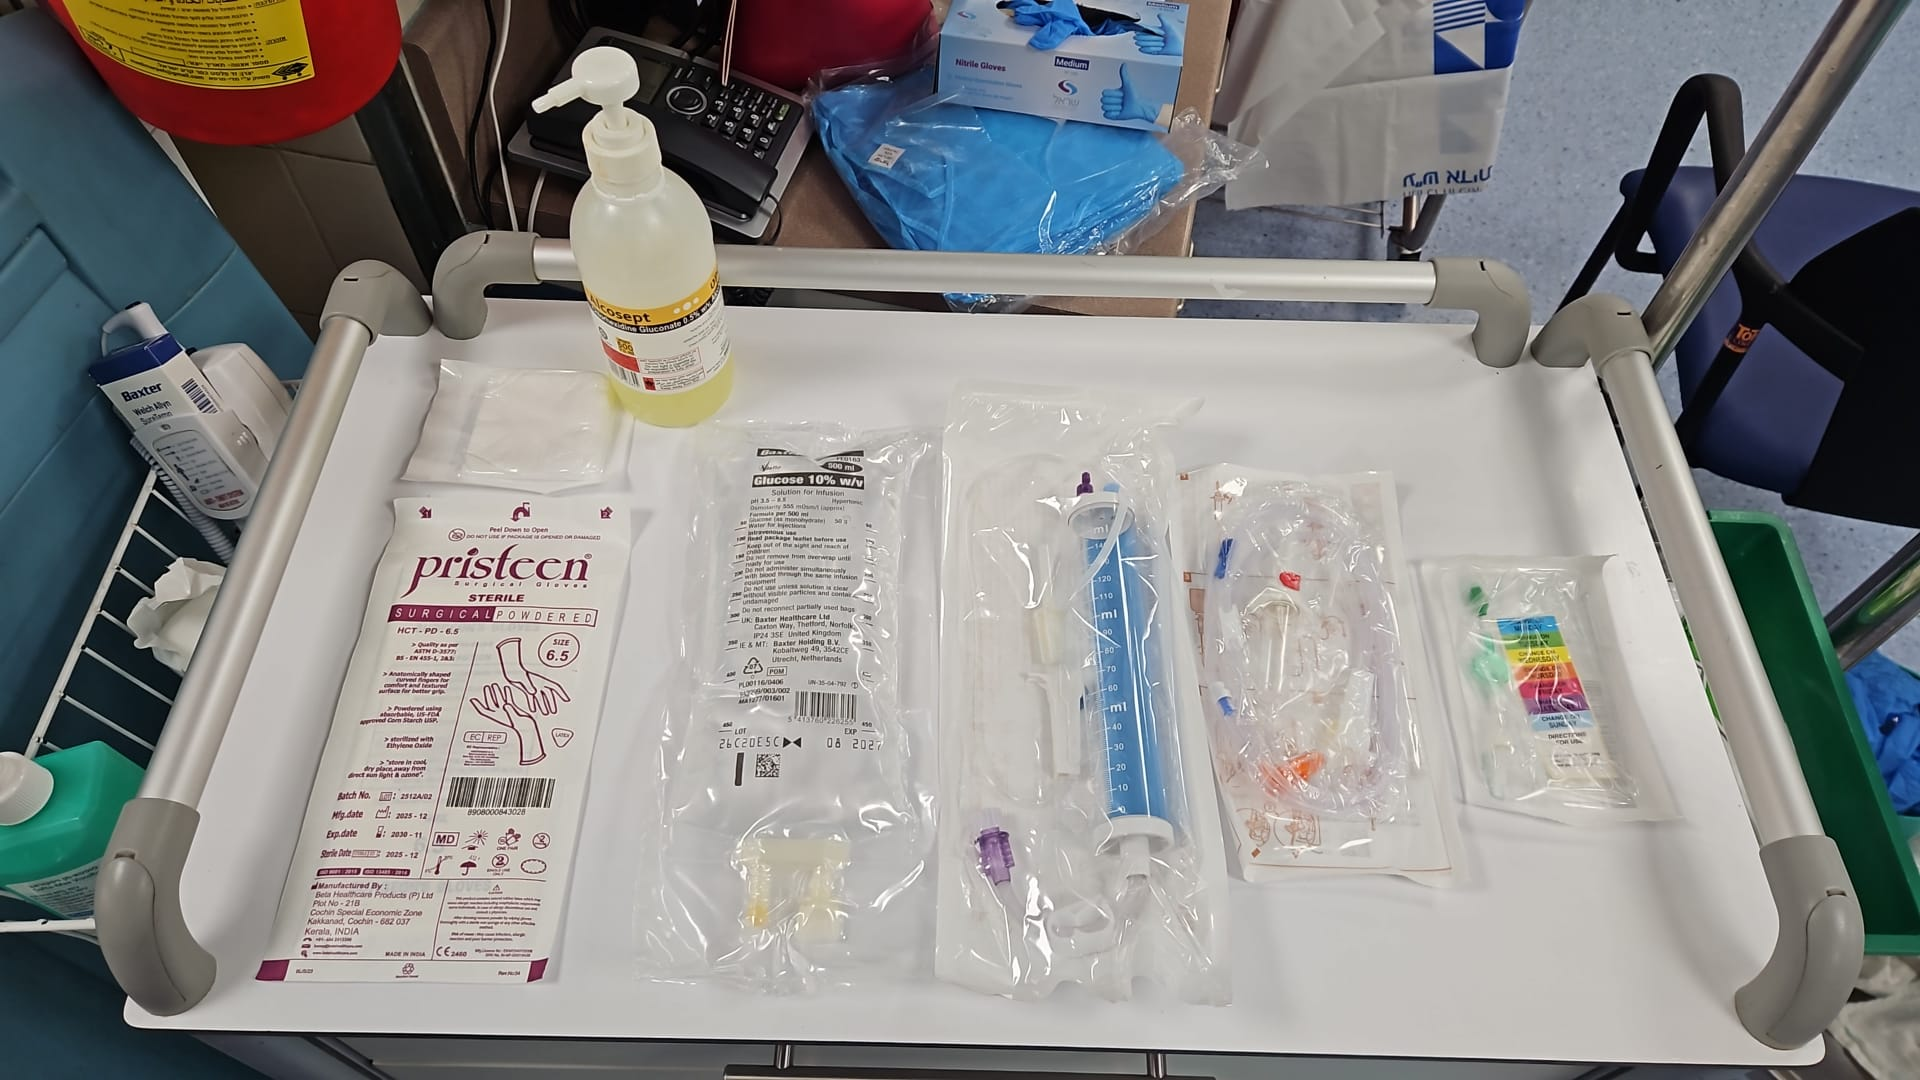
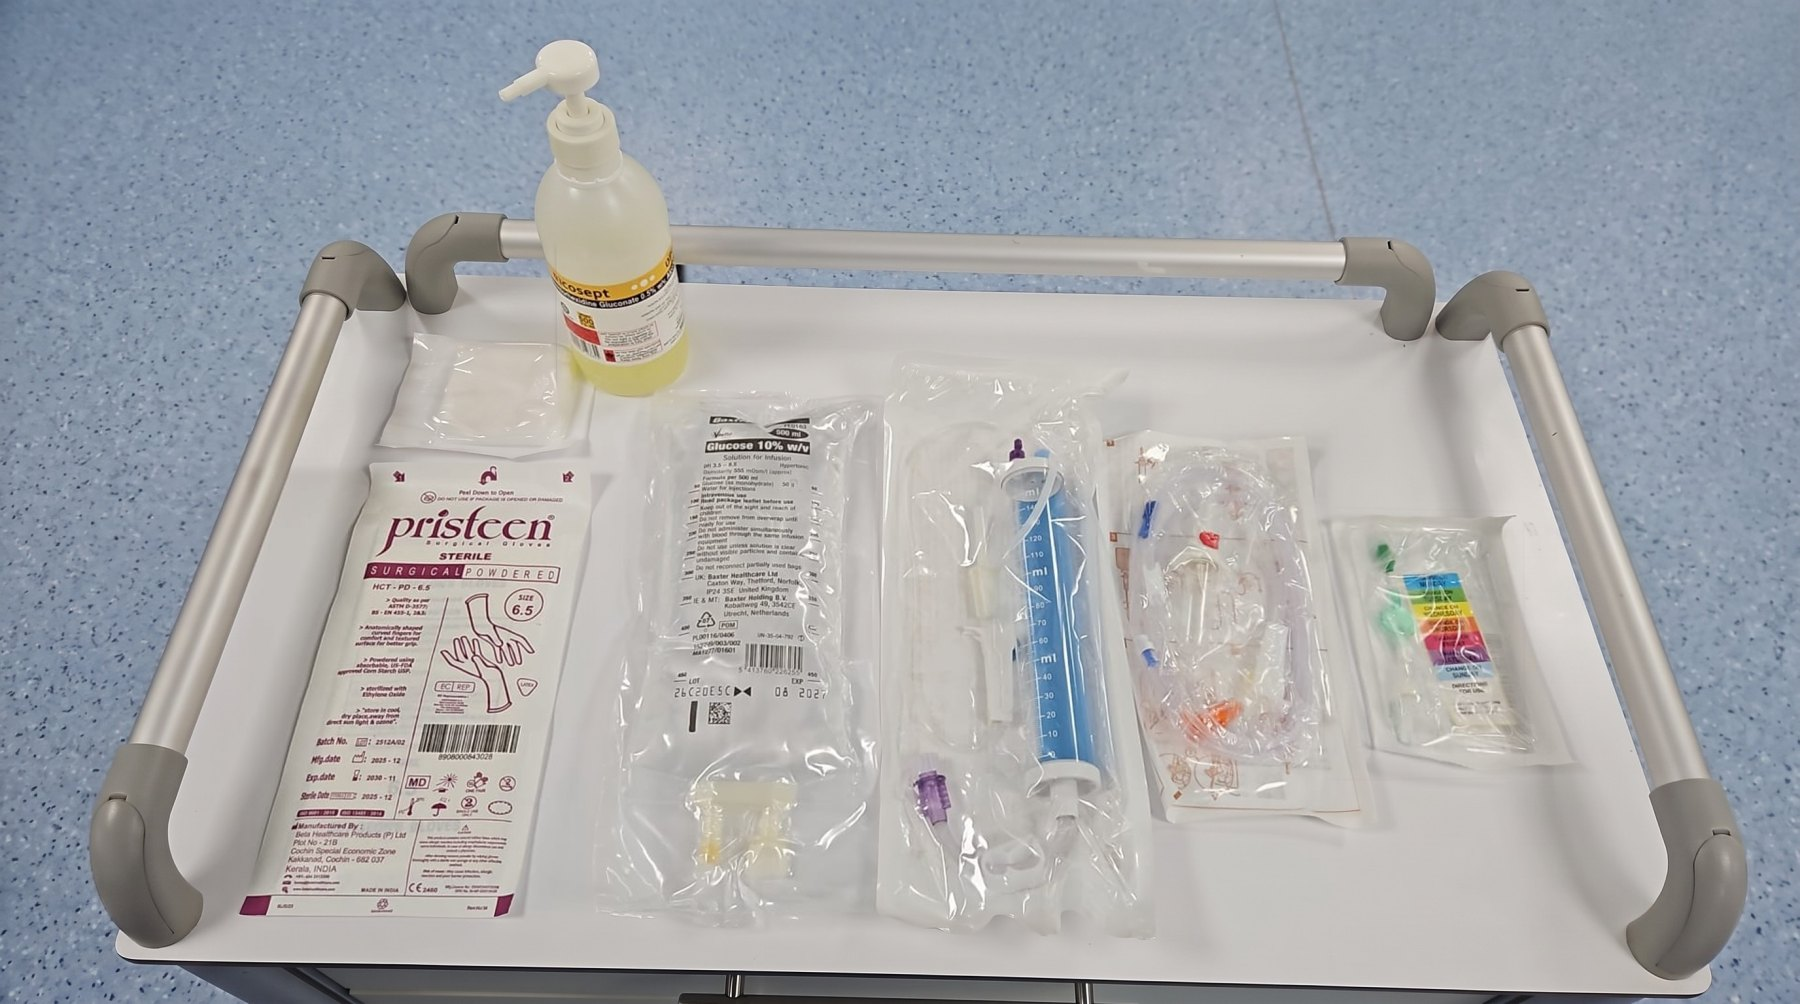
Update fluids equipment photo (clean background, original packaging text)

diff --git a/index.html b/index.html
@@ -4,7 +4,7 @@
 <meta charset="utf-8">
 <meta name="viewport" content="width=device-width, initial-scale=1">
 <title>Nicu Cal</title>
-<link rel="stylesheet" href="style.css?v=1795270661">
+<link rel="stylesheet" href="style.css?v=1795271090">
 <link rel="manifest" href="manifest.webmanifest">
 <link rel="icon" type="image/png" sizes="64x64" href="icons/favicon-64.png">
 <link rel="apple-touch-icon" href="icons/apple-touch-icon.png">
@@ -201,14 +201,14 @@
 
 <footer>כלי עזר בלבד. ההוראה הרפואית היא הקובעת. הנתונים לא נשמרים ולא נשלחים.<br><span class="credit">נבנה על ידי קורין קורח בעזרת Claude Code</span><br><span class="credit">נובמבר 2026</span></footer>
 
-<script src="js/age.js?v=1795270661"></script>
-<script src="js/pku.js?v=1795270661"></script>
-<script src="js/bili-aap-data.js?v=1795270661"></script>
-<script src="js/bili.js?v=1795270661"></script>
-<script src="js/sepsis.js?v=1795270661"></script>
-<script src="js/sga.js?v=1795270661"></script>
-<script src="js/drugs.js?v=1795270661"></script>
-<script src="js/equip.js?v=1795270661"></script>
-<script src="js/app.js?v=1795270661"></script>
+<script src="js/age.js?v=1795271090"></script>
+<script src="js/pku.js?v=1795271090"></script>
+<script src="js/bili-aap-data.js?v=1795271090"></script>
+<script src="js/bili.js?v=1795271090"></script>
+<script src="js/sepsis.js?v=1795271090"></script>
+<script src="js/sga.js?v=1795271090"></script>
+<script src="js/drugs.js?v=1795271090"></script>
+<script src="js/equip.js?v=1795271090"></script>
+<script src="js/app.js?v=1795271090"></script>
 </body>
 </html>

diff --git a/js/equip.js b/js/equip.js
@@ -11,7 +11,7 @@
         "כפפות סטריליות",
         "גזות סטריליות עם תמיסת חיטוי (כלורהקסידין)"
       ],
-      img: "equipment/fluids.jpg",
+      img: "equipment/fluids.jpg?v=1795271090",
       alt: "הציוד להכנת נוזלים מסודר על העגלה"
     }
   ];
